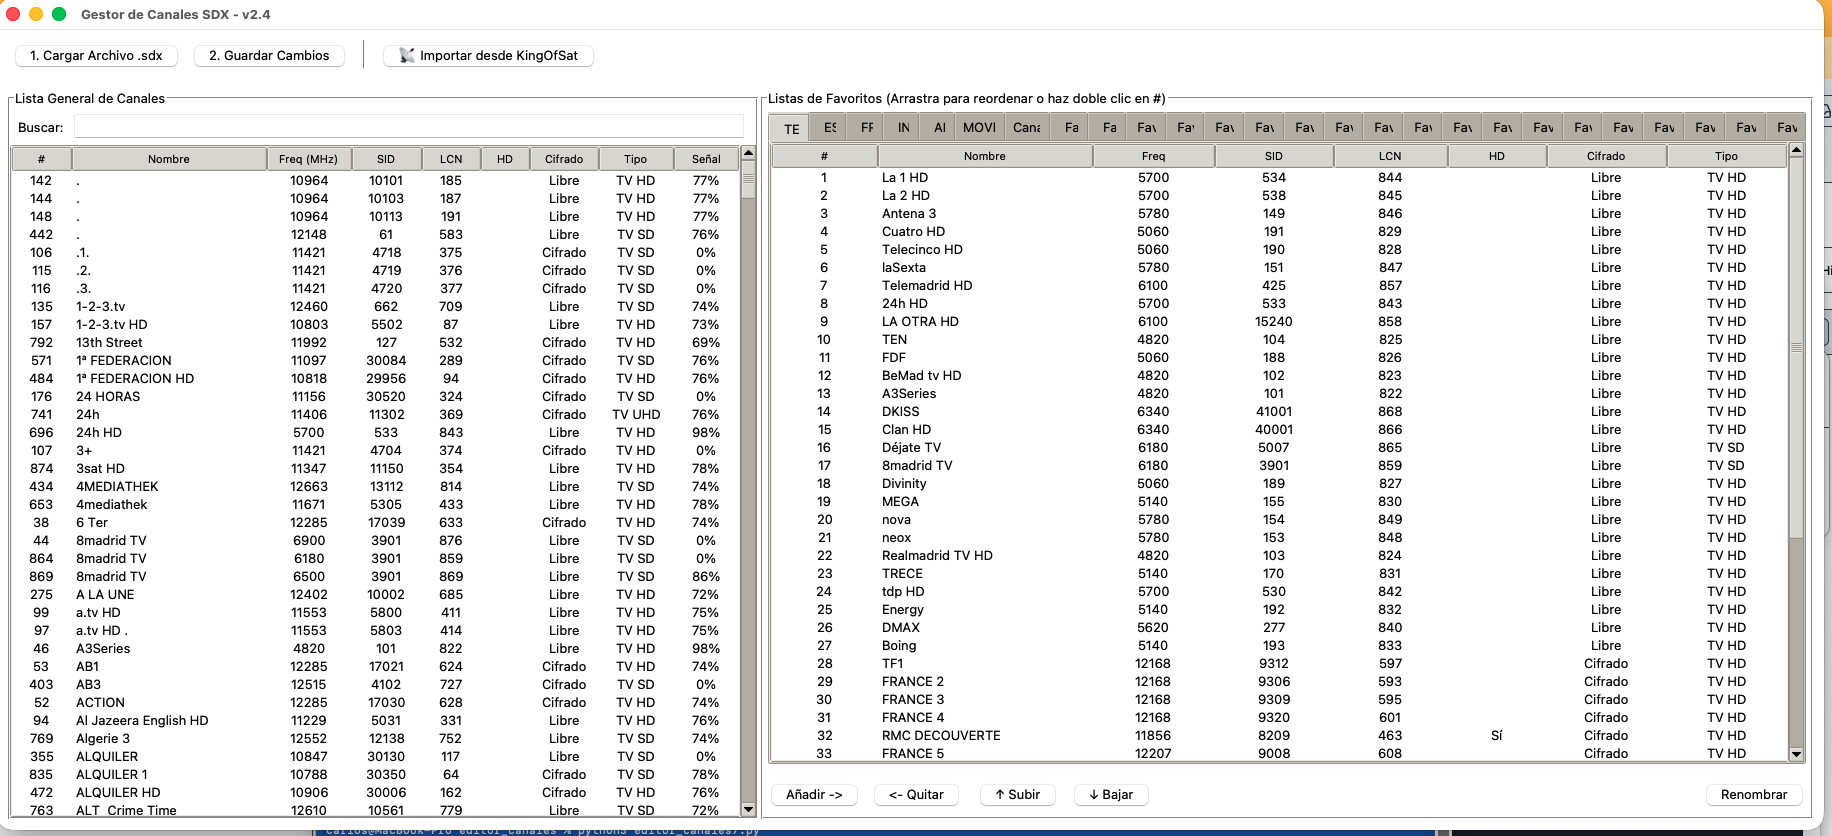
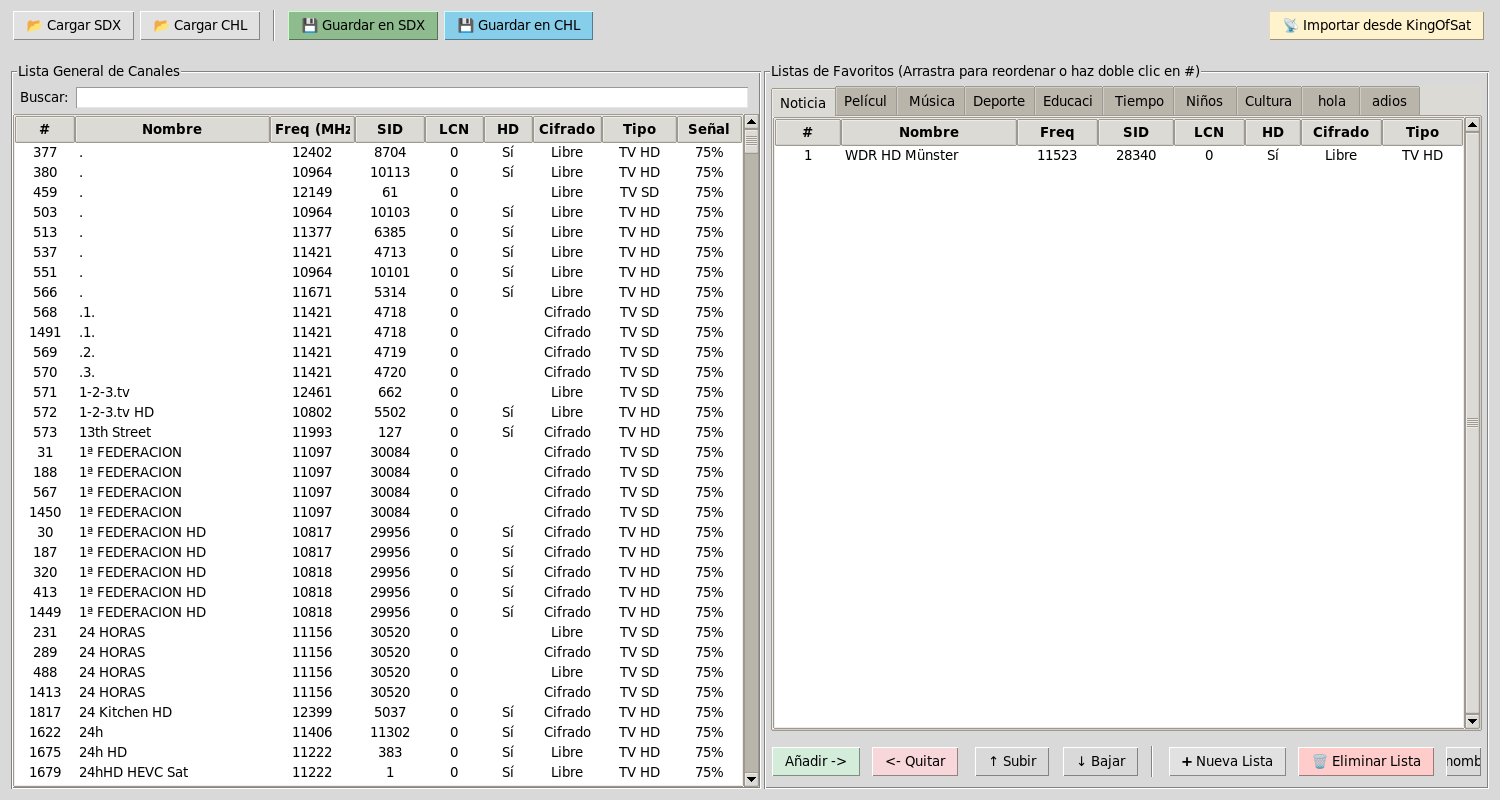
Update README and screenshots for v3.0
- Add 100% vibe coding notice
- Update features list with CHL support
- Update usage instructions for new UI
- Replace screenshots with v3.0 interface

diff --git a/README.md b/README.md
@@ -1,10 +1,12 @@
-# Editor de Canales SDX
+# Editor de canales SAT
 
-Editor gráfico para gestionar canales y listas de favoritos en receptores de satélite que utilizan archivos SDX. Esta herramienta te permite editar, reorganizar y gestionar tus canales de manera sencilla e intuitiva a través de una interfaz gráfica moderna.
+> ⚠ **Aviso**: Este proyecto es 100% vibe coding - desarrollado mediante programación asistida por IA con [Claude Code](https://claude.ai/code).
+
+Editor gráfico para gestionar canales y listas de favoritos en receptores de satélite que utilizan archivos SDX y CHL. Esta herramienta te permite editar, reorganizar y gestionar tus canales de manera sencilla e intuitiva a través de una interfaz gráfica moderna.
 
 ## Descripción
 
-Este editor ha sido desarrollado específicamente para trabajar con archivos de configuración SDX de receptores satelitales. Ofrece una interfaz visual que facilita la gestión de grandes listas de canales, permitiéndote organizar tus favoritos de forma eficiente sin necesidad de editar archivos manualmente.
+Este editor ha sido desarrollado específicamente para trabajar con archivos de configuración SDX y CHL de receptores satelitales. Ofrece una interfaz visual que facilita la gestión de grandes listas de canales, permitiéndote organizar tus favoritos de forma eficiente sin necesidad de editar archivos manualmente.
 
 ## Capturas de Pantalla
 
@@ -16,11 +18,14 @@ Este editor ha sido desarrollado específicamente para trabajar con archivos de 
 
 ## Funcionalidades
 
-- ✨ **Editor de favoritos**: Crea y edita múltiples listas de canales favoritos
+- 📂 **Soporte SDX y CHL**: Carga y guarda archivos en ambos formatos
+- ✨ **Editor de favoritos**: Crea, edita y elimina listas de canales favoritos
 - 🔄 **Reordenación intuitiva**: Arrastra y suelta canales para reorganizarlos fácilmente
 - 📥 **Importación desde KingOfSat**: Importa paquetes de canales directamente desde KingOfSat
-- 💾 **Gestión de archivos SDX**: Abre, edita y guarda archivos de configuración SDX
+- ➕ **Gestión de listas**: Crea nuevas listas de favoritos o elimina las existentes
+- 💾 **Conversión de formatos**: Convierte entre SDX y CHL fácilmente
 - 🎯 **Interfaz gráfica moderna**: Trabaja con tus canales de forma visual y sencilla
+- 🖥 **Multiplataforma**: Compatible con Linux, macOS y Windows
 
 ## Instalación
 
@@ -164,11 +169,12 @@ python3 editor_canales.py
 
 ## Uso
 
-1. **Abrir un archivo SDX**: Haz clic en "Archivo" → "Abrir" y selecciona tu archivo SDX
+1. **Cargar un archivo**: Usa "📂 Cargar SDX" o "📂 Cargar CHL" para abrir tu archivo de canales
 2. **Editar canales**: Navega por las pestañas de favoritos y edita los canales
 3. **Reorganizar**: Arrastra y suelta canales para cambiar su orden
-4. **Importar desde KingOfSat**: Usa la opción de importación para agregar paquetes de canales
-5. **Guardar cambios**: Haz clic en "Archivo" → "Guardar" para aplicar los cambios
+4. **Gestionar listas**: Usa "➕ Nueva Lista" para crear listas o "🗑 Eliminar Lista" para borrarlas
+5. **Importar desde KingOfSat**: Usa el botón para agregar paquetes de canales desde la web
+6. **Guardar cambios**: Usa "💾 Guardar en SDX" o "💾 Guardar en CHL" según el formato deseado
 
 ## Notas Importantes
 
